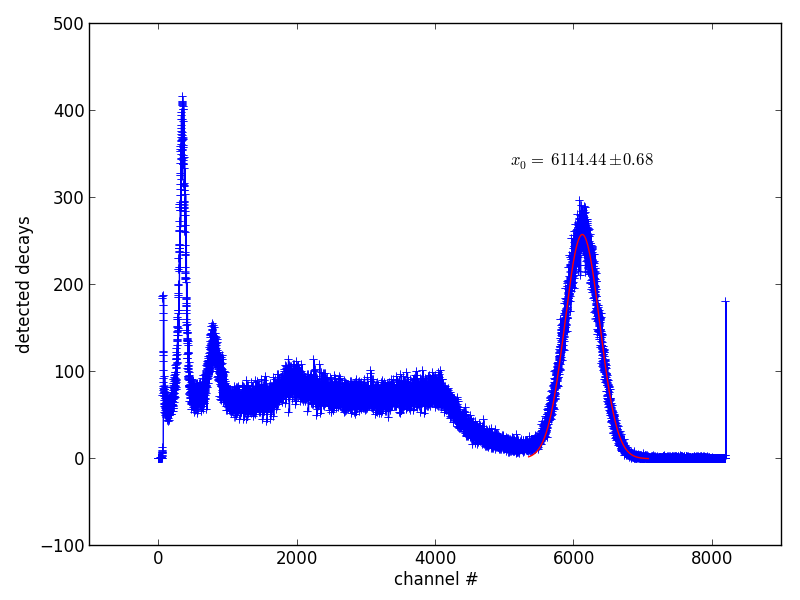
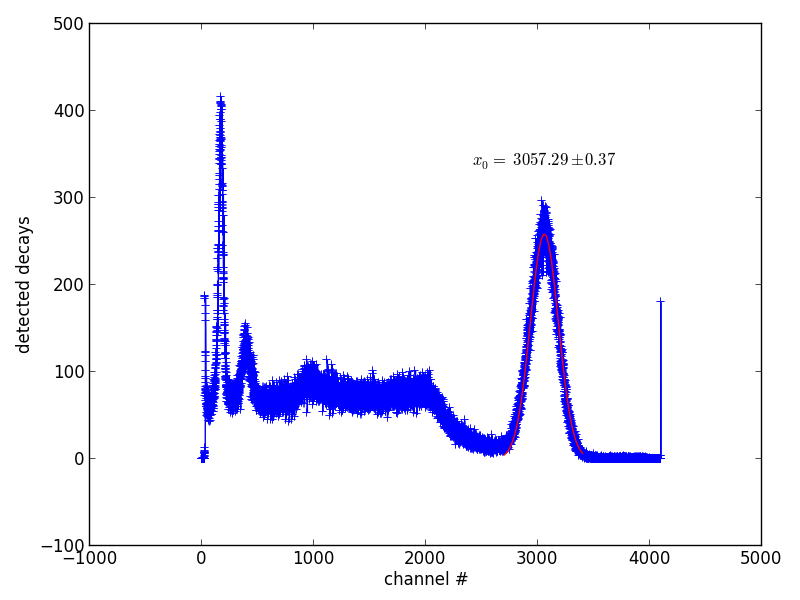
correcture

diff --git a/gama/data/cal_eval.py b/gama/data/cal_eval.py
@@ -1,0 +1,61 @@
+#!/usr/local/bin/python
+# -*- coding: utf-8 -*-
+
+import numpy as np
+import matplotlib.pyplot as plt
+import csv
+from scipy.optimize import curve_fit
+
+def gaus(x,a,x0,sigma):
+    return a*np.exp(-(x-x0)**2/(2*sigma**2))
+
+def lin(x, m, n):
+    return m*x+n
+
+x = []
+y = []
+y_err = []
+with open('peaks.csv', 'rb') as f:
+    reader = csv.reader(f)
+    for row in reader:
+        print row
+        s = str(row[0]).strip()
+        t = str(row[1]).strip()
+        u = str(row[2]).strip()
+        try:
+            x.append(float(s))
+            y.append(float(t))
+            y_err.append(float(s))
+        except:
+            print row
+
+x[2] = x[2]/2
+x = np.asarray(x)
+y = np.asarray(y)
+y_err = np.asarray(y_err)
+print x
+print y
+
+mean = 6000
+sigma = 250
+
+# popt,pcov = curve_fit(lin,x,y,p0=[1.0,0])
+
+# d_x0 = pcov[1,1]
+# a = popt[0]
+# x0 = popt[1]
+# sigma = popt[2]
+
+x_ = range(0,8000)
+
+# plt.text(x0, a * 1.2 + 27, text, horizontalalignment='center')#, verticalalignment='bottom' , rotation='vertical')
+
+plt.errorbar(x, y, xerr=0.1, yerr=0.01)
+
+# plt.plot(x_,lin(x_,*popt),'r',label='fit')
+plt.xlabel('channel #')
+plt.ylabel('Energy')
+
+plt.tight_layout()
+plt.show()
+

diff --git a/gama/data/calibrating.py b/gama/data/calibrating.py
@@ -12,27 +12,28 @@ def gaus(x,a,x0,sigma):
 x = []
 y = []
 ye = []
-i = 0
-with open('22nacal.Spe', 'rb') as f:
+i = 0.0
+with open('137cskal.Spe', 'rb') as f:
     reader = csv.reader(f)
     for row in reader:
         s = str(row[0]).strip()
         if(s.isdigit()):
-            x.append(i)
+            x.append(i/2.0)
             y.append(int(s))
-            i += 1
+            i += 1.0
 
 x = np.asarray(x)
 y = np.asarray(y)
 
+x_ = x[5400:6800]
+y_ = y[5400:6800]
 
-x_ = x[5200:6100]
-y_ = y[5200:6100]
-
-mean = 6000
-sigma = 250
+mean = 3200
+sigma = 50
 
 popt,pcov = curve_fit(gaus,x_,y_,p0=[1,mean,sigma])
+
+print pcov
 
 d_x0 = pcov[1,1]
 a = popt[0]
